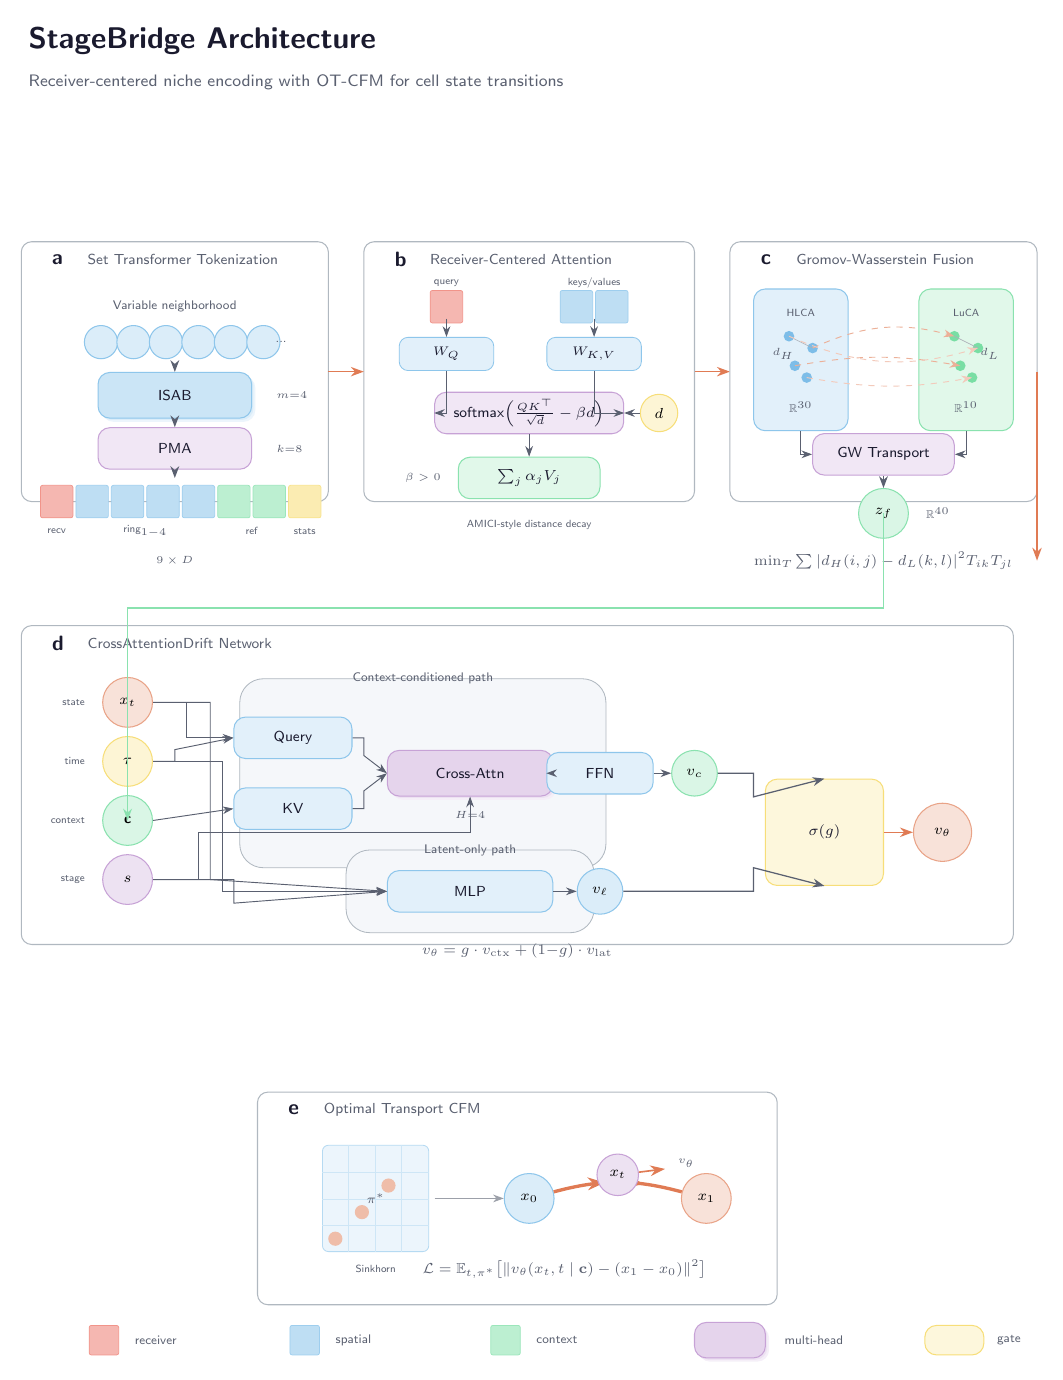
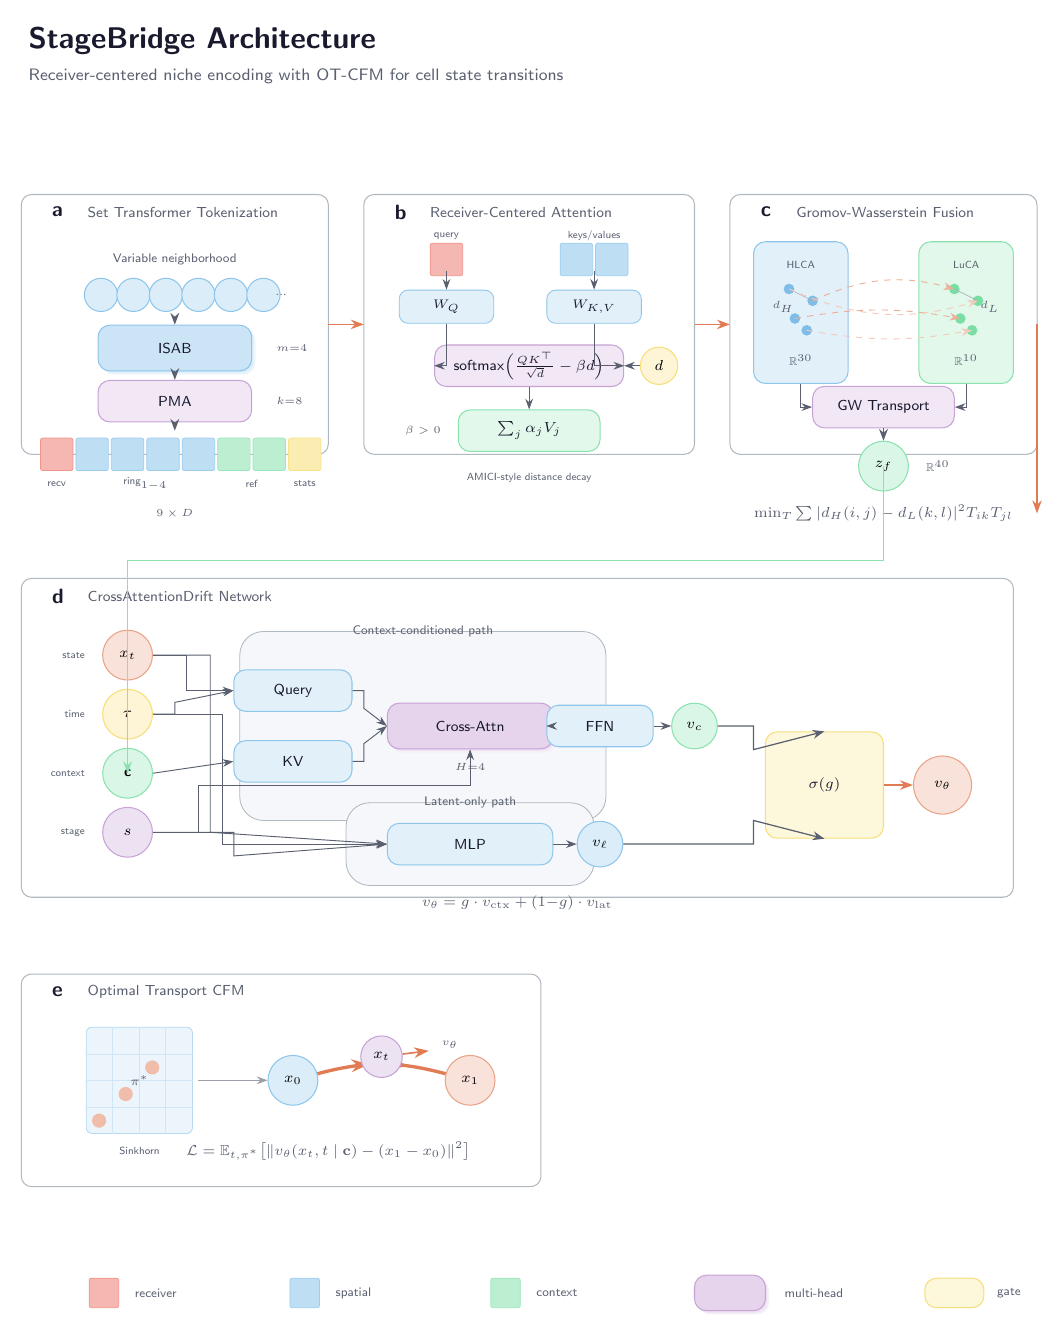
Compact architecture figure layout, add equation explanations
- Reduced whitespace between panels
- Updated description.md with verbal explanations of all equations
- Added "how to say it" sections for presentations
- Added symbol pronunciation guide

diff --git a/figures/architecture/stagebridge_ml.tex b/figures/architecture/stagebridge_ml.tex
@@ -112,14 +112,14 @@
 % HEADER
 % ============================================
 \node[font=\fontsize{14}{16}\selectfont\bfseries\sffamily, text=textmain, anchor=west]
-    at (0, 118) {StageBridge Architecture};
+    at (0, 72) {StageBridge Architecture};
 \node[font=\fontsize{8}{9}\selectfont\sffamily, text=textsub, anchor=west]
-    at (0, 111) {Receiver-centered niche encoding with OT-CFM for cell state transitions};
+    at (0, 66) {Receiver-centered niche encoding with OT-CFM for cell state transitions};
 
 % ============================================
 % a) TOKENIZATION
 % ============================================
-\begin{scope}[shift={(0, 62)}]
+\begin{scope}[shift={(0, 24)}]
     \node[panel, minimum width=52mm, minimum height=44mm] at (26, 0) {};
     \node[title, anchor=west] at (4, 19) {a};
     \node[subtitle, anchor=west] at (10, 19) {Set Transformer Tokenization};
@@ -165,7 +165,7 @@
 % ============================================
 % b) RECEIVER-CENTERED ATTENTION
 % ============================================
-\begin{scope}[shift={(58, 62)}]
+\begin{scope}[shift={(58, 24)}]
     \node[panel, minimum width=56mm, minimum height=44mm] at (28, 0) {};
     \node[title, anchor=west] at (4, 19) {b};
     \node[subtitle, anchor=west] at (10, 19) {Receiver-Centered Attention};
@@ -206,15 +206,15 @@
 \end{scope}
 
 % Arrow a->b
-\draw[arraccent] (52, 62) -- (58, 62);
+\draw[arraccent] (52, 24) -- (58, 24);
 
 % Arrow b->c
-\draw[arraccent] (114, 62) -- (120, 62);
+\draw[arraccent] (114, 24) -- (120, 24);
 
 % ============================================
 % c) GROMOV-WASSERSTEIN FUSION
 % ============================================
-\begin{scope}[shift={(120, 62)}]
+\begin{scope}[shift={(120, 24)}]
     \node[panel, minimum width=52mm, minimum height=44mm] at (26, 0) {};
     \node[title, anchor=west] at (4, 19) {c};
     \node[subtitle, anchor=west] at (10, 19) {Gromov-Wasserstein Fusion};
@@ -271,12 +271,12 @@
 \end{scope}
 
 % Arrow c->d
-\draw[arraccent] (172, 62) -- (172, 30);
+\draw[arraccent] (172, 24) -- (172, -8);
 
 % ============================================
 % d) CROSS-ATTENTION DRIFT
 % ============================================
-\begin{scope}[shift={(0, -8)}]
+\begin{scope}[shift={(0, -46)}]
     \node[panel, minimum width=168mm, minimum height=54mm] at (84, 0) {};
     \node[title, anchor=west] at (4, 24) {d};
     \node[subtitle, anchor=west] at (10, 24) {CrossAttentionDrift Network};
@@ -350,12 +350,12 @@
 \end{scope}
 
 % Context connection from GW fusion (panel c) to CrossAttentionDrift (panel d)
-\draw[arrthick, draw=refcol!70] (146, 38) -- (146, 22) -| (18, -14);
+\draw[arrthick, draw=refcol!70] (146, 0) -- (146, -16) -| (18, -52);
 
 % ============================================
 % e) OT-CFM
 % ============================================
-\begin{scope}[shift={(40, -78)}]
+\begin{scope}[shift={(0, -104)}]
     \node[panel, minimum width=88mm, minimum height=36mm] at (44, 0) {};
     \node[title, anchor=west] at (4, 15) {e};
     \node[subtitle, anchor=west] at (10, 15) {Optimal Transport CFM};
@@ -400,7 +400,7 @@
 % ============================================
 % LEGEND
 % ============================================
-\begin{scope}[shift={(0, -102)}]
+\begin{scope}[shift={(0, -140)}]
     \node[tok=recv, minimum size=5mm] at (14, 0) {};
     \node[annot, anchor=west] at (18, 0) {receiver};
 

diff --git a/figures/architecture/stagebridge_ml_description.md b/figures/architecture/stagebridge_ml_description.md
@@ -2,138 +2,132 @@
 
 **File:** `stagebridge_ml.tex` / `stagebridge_ml.pdf`
 
-**Title:** StageBridge Architecture - Receiver-centered niche encoding with OT-CFM for cell state transitions
+---
+
+## One-Sentence Summary
+
+> StageBridge tokenizes variable-size cellular neighborhoods into fixed 9-token sequences, uses receiver-centered attention with distance decay to capture microenvironment influence, fuses healthy and cancer atlas references via Gromov-Wasserstein transport, then learns a gated conditional flow that predicts cell state transitions given niche context.
 
 ---
 
-## Overview
-
-This figure illustrates the complete StageBridge model architecture in 5 panels, showing how cellular neighborhoods are tokenized, processed through attention mechanisms, fused with reference atlases, and used to predict cell state transitions via conditional flow matching.
-
----
-
-## Panel Descriptions
+## Panel-by-Panel Description
 
 ### Panel a: Set Transformer Tokenization
 
-**What it shows:** Converting variable-size cellular neighborhoods into fixed-length token sequences.
+**What it does:** Converts a variable number of neighbor cells into a fixed 9-token sequence.
 
 **Components:**
-- **Input:** Variable number of neighbor cells (blue circles)
-- **ISAB:** Induced Set Attention Block (m=4 inducing points) - compresses variable input
-- **PMA:** Pooling by Multihead Attention (k=8) - produces fixed output
+- **ISAB** (Induced Set Attention Block): Compresses variable-length input using m=4 inducing points
+- **PMA** (Pooling by Multihead Attention): Outputs k=8 fixed tokens
 
-**Output tokens (9 total, dimension D each):**
-| Token | Color | Description |
-|-------|-------|-------------|
-| recv | Red | Receiver cell (the cell being modeled) |
-| ring_1-4 | Blue | Spatial ring tokens (concentric neighborhoods) |
-| ref | Green | Reference atlas embeddings (HLCA + LuCA) |
-| stats | Yellow | Biological statistics (cell cycle, etc.) |
+**Output tokens:**
+- 1 **receiver** (red) - the cell we're modeling
+- 4 **spatial rings** (blue) - concentric neighborhood summaries
+- 2 **reference** (green) - HLCA and LuCA atlas embeddings  
+- 1 **stats** (yellow) - biological covariates (cell cycle, etc.)
 
-**Key point:** "No matter how many neighbors a cell has, we get the same 9-token representation."
+**How to say it:**
+> "We take a variable number of neighboring cells and compress them into a fixed 9-token representation using a Set Transformer. This gives us the receiver cell, four concentric spatial rings, two reference atlas embeddings, and a statistics token."
 
 ---
 
 ### Panel b: Receiver-Centered Attention
 
-**What it shows:** How the receiver cell attends to its spatial context with distance-aware attention.
-
-**Mechanism:**
-- **Query:** Receiver token only
-- **Keys/Values:** Spatial ring tokens
-- **Distance decay:** Attention scores are penalized by physical distance
+**What it does:** The receiver cell attends to spatial context with distance-aware weighting.
 
 **Equation:**
 ```
-attention = softmax(QK^T / sqrt(d) - beta * distance)
-output = sum_j(alpha_j * V_j)
+softmax(QK^T / sqrt(d) - beta * d)
 ```
 
-**Key point:** "Nearby cells have more influence than distant cells, controlled by learned parameter beta."
+**How to say it:**
+> "This is standard scaled dot-product attention, but we subtract a distance penalty. The term Q-K-transpose over root-d is the usual attention score. We then subtract beta times the physical distance d. Beta is learned and positive, so nearby cells get higher attention weights than distant cells. This is inspired by AMICI's distance decay mechanism."
+
+**Output:**
+```
+sum_j (alpha_j * V_j)
+```
+
+> "The output is a weighted sum of value vectors, where the weights alpha come from the distance-penalized softmax."
 
 ---
 
 ### Panel c: Gromov-Wasserstein Fusion
 
-**What it shows:** Aligning and fusing two reference atlas embeddings (healthy vs cancer).
-
-**Components:**
-- **HLCA space:** Healthy Lung Cell Atlas embeddings (30D)
-- **LuCA space:** Lung Cancer Atlas embeddings (10D)
-- **GW Transport:** Gromov-Wasserstein optimal transport alignment
+**What it does:** Aligns HLCA (healthy, 30D) and LuCA (cancer, 10D) embeddings by matching their internal distance structures.
 
 **Equation:**
 ```
 min_T sum |d_H(i,j) - d_L(k,l)|^2 * T_ik * T_jl
 ```
 
-**Output:** Fused embedding z_f in R^40
+**How to say it:**
+> "We minimize over transport plans T. For each pair of points i,j in the HLCA space and k,l in the LuCA space, we compute how different their pairwise distances are - d_H of i,j versus d_L of k,l. We square that difference and weight it by the coupling entries T_ik and T_jl. The optimization finds a coupling that makes HLCA and LuCA distances as consistent as possible."
 
-**Key point:** "We align healthy and cancer reference spaces by preserving pairwise distance structure, not just concatenating."
+> "In plain terms: if two cells are close in healthy-reference space, they should also be close in cancer-reference space after alignment."
+
+**Output:** Fused embedding z_f in R^40
 
 ---
 
 ### Panel d: CrossAttentionDrift Network
 
-**What it shows:** The velocity prediction network that drives the flow matching.
+**What it does:** Predicts the velocity (direction of change) for a cell state, conditioned on niche context.
 
 **Inputs:**
-| Symbol | Name | Description |
-|--------|------|-------------|
-| x_t | state | Current cell state at time t |
-| tau | time | Flow time embedding |
-| c | context | Niche context vector from encoder |
-| s | stage | Disease stage embedding |
+- x_t = current cell state at time t
+- tau = time embedding
+- c = niche context vector
+- s = disease stage
 
 **Two parallel paths:**
-1. **Context-conditioned path:** Cross-attention between (state, time) query and context keys/values
-2. **Latent-only path:** MLP processing state, time, and stage directly
+1. **Context-conditioned path:** Cross-attention where (state + time) queries attend to context
+2. **Latent-only path:** MLP that ignores context
 
-**Gating mechanism:**
+**Equation:**
 ```
 v_theta = g * v_ctx + (1-g) * v_lat
 ```
 
-**Key point:** "The model can blend context-dependent and context-independent predictions, learning when niche matters."
+**How to say it:**
+> "The final velocity v-theta is a weighted blend of two predictions. v-ctx is the context-aware prediction from cross-attention. v-lat is the context-free prediction from the MLP. The gate g, which passes through a sigmoid, learns when to trust context versus when to rely on the cell's intrinsic state. When g is high, context matters; when g is low, the cell follows its own trajectory."
 
 ---
 
 ### Panel e: Optimal Transport CFM
 
-**What it shows:** The flow matching training objective with optimal transport coupling.
+**What it does:** Trains the model to predict straight-line velocities between optimally-coupled cell states.
 
 **Components:**
-- **pi*:** Optimal coupling matrix (computed via Sinkhorn)
-- **x_0:** Source cell state
-- **x_1:** Target cell state
-- **x_t:** Interpolated state at time t
-- **v_theta:** Predicted velocity
+- **pi*** = optimal coupling matrix (computed via Sinkhorn algorithm)
+- **x_0** = source cell state
+- **x_1** = target cell state  
+- **x_t** = interpolated state at time t
 
-**Loss function:**
+**Equation:**
 ```
 L = E_{t, pi*}[||v_theta(x_t, t | c) - (x_1 - x_0)||^2]
 ```
 
-**Key point:** "We train the model to predict straight-line velocities between optimally-coupled source-target pairs."
+**How to say it:**
+> "The loss L is an expectation over time t and over source-target pairs sampled from the optimal coupling pi-star. For each pair, we interpolate to get x_t, ask the model to predict v-theta, and penalize the squared difference from the true velocity x_1 minus x_0. We're training the model to predict straight-line paths between optimally matched cell states."
+
+> "The Sinkhorn algorithm finds which source cells should map to which target cells - it's not random pairing, it's optimal transport pairing that minimizes total movement cost."
 
 ---
 
-## Legend
+## Quick Reference: How to Pronounce Symbols
 
-| Symbol | Color | Meaning |
-|--------|-------|---------|
-| Red box | Salmon | Receiver token |
-| Blue box | Sky blue | Spatial tokens |
-| Green box/circle | Mint | Context/reference |
-| Purple box | Lavender | Multi-head attention |
-| Yellow box | Gold | Gate/stats |
-
----
-
-## One-Sentence Summary
-
-> StageBridge tokenizes variable-size cellular neighborhoods into fixed 9-token sequences, uses receiver-centered attention with distance decay to capture microenvironment influence, fuses healthy and cancer atlas references via Gromov-Wasserstein transport, then learns a gated conditional flow that predicts cell state transitions given niche context.
+| Symbol | Say |
+|--------|-----|
+| x_t | "x sub t" or "x at time t" |
+| v_theta | "v theta" (the learned velocity) |
+| pi* | "pi star" (optimal coupling) |
+| d_H, d_L | "d sub H", "d sub L" (distances in HLCA/LuCA space) |
+| T_ik | "T i-k" (transport plan entry) |
+| alpha_j | "alpha j" (attention weight) |
+| beta | "beta" (distance decay parameter) |
+| sigma(g) | "sigma of g" (sigmoid gate) |
 
 ---
 
@@ -143,8 +137,8 @@ L = E_{t, pi*}[||v_theta(x_t, t | c) - (x_1 - x_0)||^2]
 
 2. **Why receiver-centered?** "We're modeling how the microenvironment affects THIS cell specifically. The receiver is the query, the neighborhood is the context."
 
-3. **Why GW fusion?** "HLCA tells us about healthy cell states, LuCA about cancer states. GW aligns them structurally rather than just concatenating."
+3. **Why GW fusion?** "HLCA tells us about healthy cell states, LuCA about cancer states. GW aligns them structurally rather than just concatenating - it preserves the geometry of both spaces."
 
-4. **Why the gate?** "Sometimes niche context matters a lot (early progression), sometimes less (cell-autonomous changes). The gate learns this."
+4. **Why the gate?** "Sometimes niche context matters a lot (early progression), sometimes less (cell-autonomous changes). The gate learns this automatically."
 
-5. **Why OT-CFM?** "Optimal transport gives us biologically meaningful pairings between cell states. Flow matching learns smooth, reversible trajectories."
+5. **Why OT-CFM?** "Optimal transport gives us biologically meaningful pairings between cell states. Flow matching learns smooth, reversible trajectories - we can run the model forward (progression) or backward (what was the precursor state?)."
